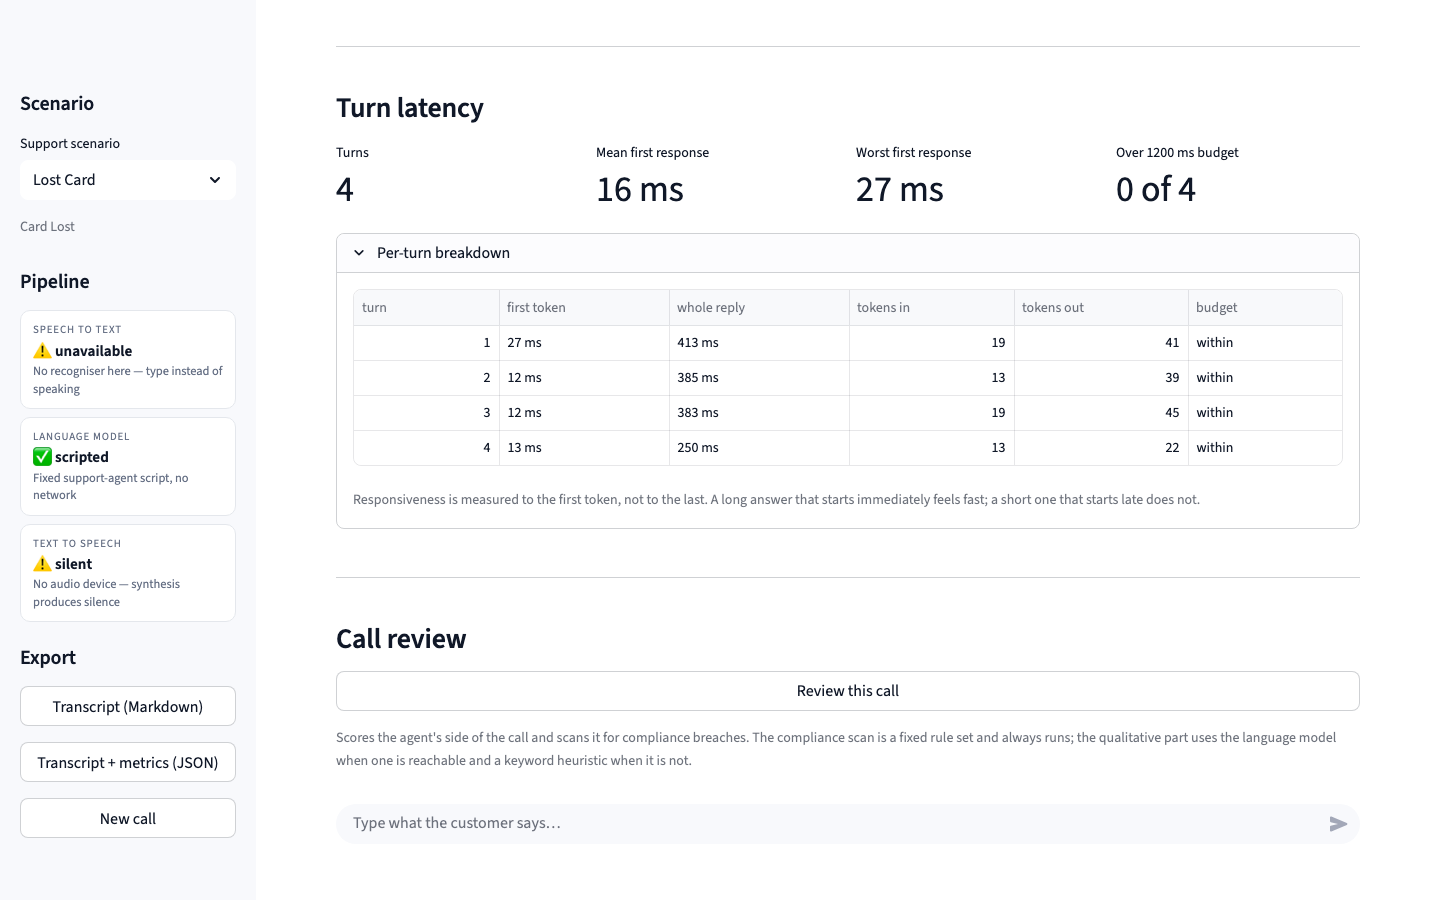
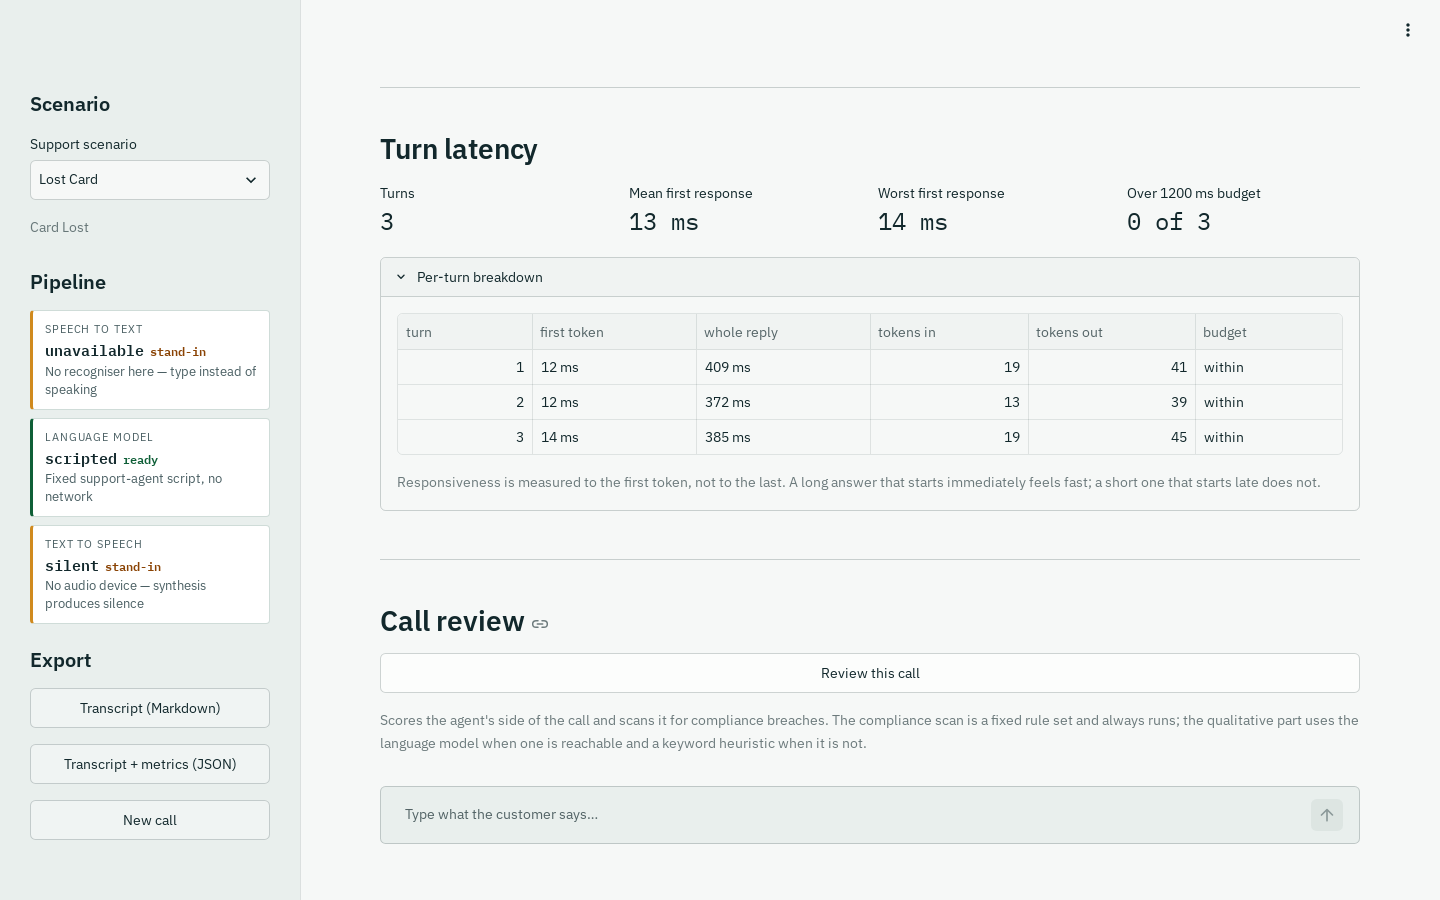
Refresh screenshots and README for the 3.12 image and new UI
Recaptured at 1440x900 plus a 390x844 phone view against the seeded
offline call. README now separates the base install from the audio CLI,
carries benchmark and image figures measured on this pass, mentions
the render tests, and adds the MIT licence.

diff --git a/README.md b/README.md
@@ -18,20 +18,26 @@ docker compose up -d --build     # then open http://localhost:8110
 
 No key required: without `GROQ_API_KEY` the model resolves to the scripted local agent, and the
 container seeds a real opening exchange through the engine on first load so the page is not empty.
-`docker compose down -v` when you are done. Locally instead:
+`docker compose down -v` when you are done. Locally instead, on Python 3.12 (`.python-version`):
 
 ```bash
 python3 -m venv project_venv && source project_venv/bin/activate
 pip install -r requirements/base.txt         # pipeline + UI, no audio
-streamlit run streamlit_app.py               # or, driving the same engine:
-python main.py --persona card_lost --turns 3 # full-duplex CLI, real barge-in
+streamlit run streamlit_app.py               # http://localhost:8501
 python scripts/bench_latency.py --turns 12   # p50/p95/max time-to-first-token
 ```
 
-`pip install -r requirements.txt` adds microphone capture and local synthesis (torch, transformers,
-spaCy) — only worth it where there is hardware to drive. With a microphone the UI starts in voice
-mode, without one in text mode; `VOICE_IO` forces either. `--persona` takes `card_lost`,
-`transfer_failed` or `account_locked`, and the CLI is the only entry point that writes
+The CLI is the microphone path, so it needs the audio extras:
+
+```bash
+pip install -r requirements.txt              # + PortAudio, webrtcvad, Kokoro (torch)
+python main.py --persona card_lost --turns 3 # full-duplex, real barge-in
+```
+
+Those extras pull in torch, transformers and spaCy — only worth it where there is hardware to drive.
+On the base install `main.py` exits with that install hint instead of a traceback. With a microphone
+the UI starts in voice mode, without one in text mode; `VOICE_IO` forces either. `--persona` takes
+`card_lost`, `transfer_failed` or `account_locked`, and the CLI is the only entry point that writes
 `logs/latency_log.csv`.
 
 Below is a seeded call against the offline scripted agent — no network, no audio hardware, and every
@@ -40,9 +46,10 @@ number on screen measured rather than mocked.
 ![A lost-card call in progress, with per-turn latency](docs/screenshots/01-conversation.png)
 
 With no credentials the sidebar reports transcription unavailable, the model scripted and synthesis
-silent: three chips, not three exceptions. Also captured, a fresh call after switching scenario
-([04-scenario.png](docs/screenshots/04-scenario.png)) and the review panel
-([03-review.png](docs/screenshots/03-review.png)).
+silent, each labelled *ready* or *stand-in* in words: three status lines, not three exceptions. Also
+captured, a fresh call after switching scenario ([04-scenario.png](docs/screenshots/04-scenario.png)),
+the review panel ([03-review.png](docs/screenshots/03-review.png)) and the page at phone width
+([05-mobile.png](docs/screenshots/05-mobile.png)).
 
 ## One turn, and where the milliseconds accrue
 
@@ -157,25 +164,26 @@ half is real.
 ## What the benchmark measures, and what it does not
 
 `scripts/bench_latency.py` runs a fixed script of customer lines through `ConversationEngine`. Against
-the scripted provider, one run on an M-series laptop, Python 3.14:
+the scripted provider, one run in a `python:3.12-slim` container limited to three CPUs:
 
 ```
 provider          scripted
-turns             12 in 5.08s
+turns             12 in 4.01s
 prompt window     820 chars held after the run
 
                     p50        p95       max
-time to first token    18.1ms     18.1ms     18.2ms
-whole turn            424.1ms    473.6ms    514.9ms
+time to first token    12.7ms     15.4ms     15.4ms
+whole turn            328.8ms    446.7ms    446.7ms
 
 budget            1200ms — 0/12 turns over
 ```
 
 **Read that as the loop's own overhead and nothing else.** The scripted provider emits word by word
-behind a deliberate `time.sleep(0.012)` (`src/local_backend.py`), so roughly 12 of those 18
+behind a deliberate `time.sleep(0.012)` (`src/local_backend.py`), so roughly 12 of those 13
 milliseconds *are the stand-in's own delay*; the remainder is prompt assembly, the window and the
 streaming machinery, and the whole-turn figure is that same 12 ms times the word count of a canned
-reply. Both move with the machine and the interpreter, so run the command rather than trust the block.
+reply. p95 is nearest-rank, shared with the in-app call summary (`conversation.percentile`). Both
+move with the machine and the interpreter, so run the command rather than trust the block.
 **Hosted latency was not measured at all**, because that needs a key and a paid account — nothing here
 is a claim about Groq's response times, and no number in this repo should be read as one.
 
@@ -213,25 +221,30 @@ The rest tune the hosted models, the Kokoro voice, the `say` fallback and the CL
 
 ```bash
 pip install -r requirements/dev.txt
-python -m pytest tests/     # 287 passed
+python -m pytest tests/     # 299 passed
 ruff check . && ruff format --check .
 ```
 
 **No test touches a microphone, a speaker or the network.** `tests/conftest.py` strips `GROQ_API_KEY`
 for every test, so a developer with a real key exported cannot make a live call by accident, and it
 stands in for `groq` and `webrtcvad` when they are not installed, so the suite runs on the base
-install — in a container, or on a CI runner with no sound card.
+install — in a container, or on a CI runner with no sound card. `tests/test_streamlit_render.py`
+drives the real page through Streamlit's `AppTest`: empty state, seeded call, a typed turn, the
+review and the status labels.
 
-The Dockerfile is multi-stage and non-root (`assistant`, uid 1000), with builder/runtime/test targets
-and a healthcheck on `/_stcore/health` via urllib so no curl package is needed. The runtime installs
-`requirements/base.txt` only: the audio extras drive hardware a container does not have, so torch,
-transformers, spaCy, PortAudio, ALSA headers, `webrtcvad` and the whole C toolchain are absent — which
-is what made `webrtcvad` lazy behind `audio_devices.get_webrtcvad()`. The build log for that slimming
-pass records **2.71 GB → 834 MB**, and its verification lines read: build **verified** —
-`docker compose build` at 834 MB, `docker build --target test` at 888 MB; boot **verified** —
-healthcheck `healthy` in about 9 s, `http://localhost:8110/` → `200`, container as uid 1000 resolving
-`stt=unavailable / llm=scripted / tts=silent` with no key; in-container suite
-`docker run --rm ai-voice-assistant:test` → `287 passed in 5.50s`. Host port **8110** only.
+The Dockerfile is multi-stage and non-root (`assistant`, uid 1000), on `python:3.12-slim`, with
+builder/runtime/test targets and a healthcheck on `/_stcore/health` via urllib so no curl package is
+needed. The runtime installs `requirements/base.txt` only: the audio extras drive hardware a container
+does not have, so torch, transformers, spaCy, PortAudio, ALSA headers, `webrtcvad` and the C toolchain
+are absent — which is why `webrtcvad` is lazy behind `audio_devices.get_webrtcvad()`. Measured on this
+pass: runtime image 851 MB, test image 902 MB, healthcheck `healthy` and `/` → `200` as uid 1000 with
+no key, and the suite inside the test image with `--network none` → `299 passed`:
+
+```bash
+docker build --target test -t ai-voice-assistant:test . && docker run --rm --network none ai-voice-assistant:test
+```
+
+Host port **8110** only.
 
 ## What this does not do
 
@@ -244,7 +257,14 @@ healthcheck `healthy` in about 9 s, `http://localhost:8110/` → `200`, containe
   exhaustive. Feedback scoring grades the model's replies, not a trainee's.
 - **The CSV log is CLI-only.** Neither Streamlit path writes `logs/latency_log.csv`; the UI holds its
   metrics in session state for the page's lifetime and exports them on request.
+- **Hosted paths are untested against the real service.** The Groq SDK is on 1.x and its call
+  signatures were checked, but no request has been made with a key; the audio extras were bumped
+  without being installed, since that needs real devices.
 - **Transitive dependencies float.** `requirements/` pins the direct dependencies exactly and lets
   pip resolve the rest — easier to maintain than a full freeze, but not a lockfile.
 - **`VoiceClient` still owns its own turn assembly** rather than running on `ConversationEngine`, though
   it shares `split_sentences` and `ConversationState` with it. That is the one duplication left.
+
+## License
+
+MIT — see [LICENSE](LICENSE).
